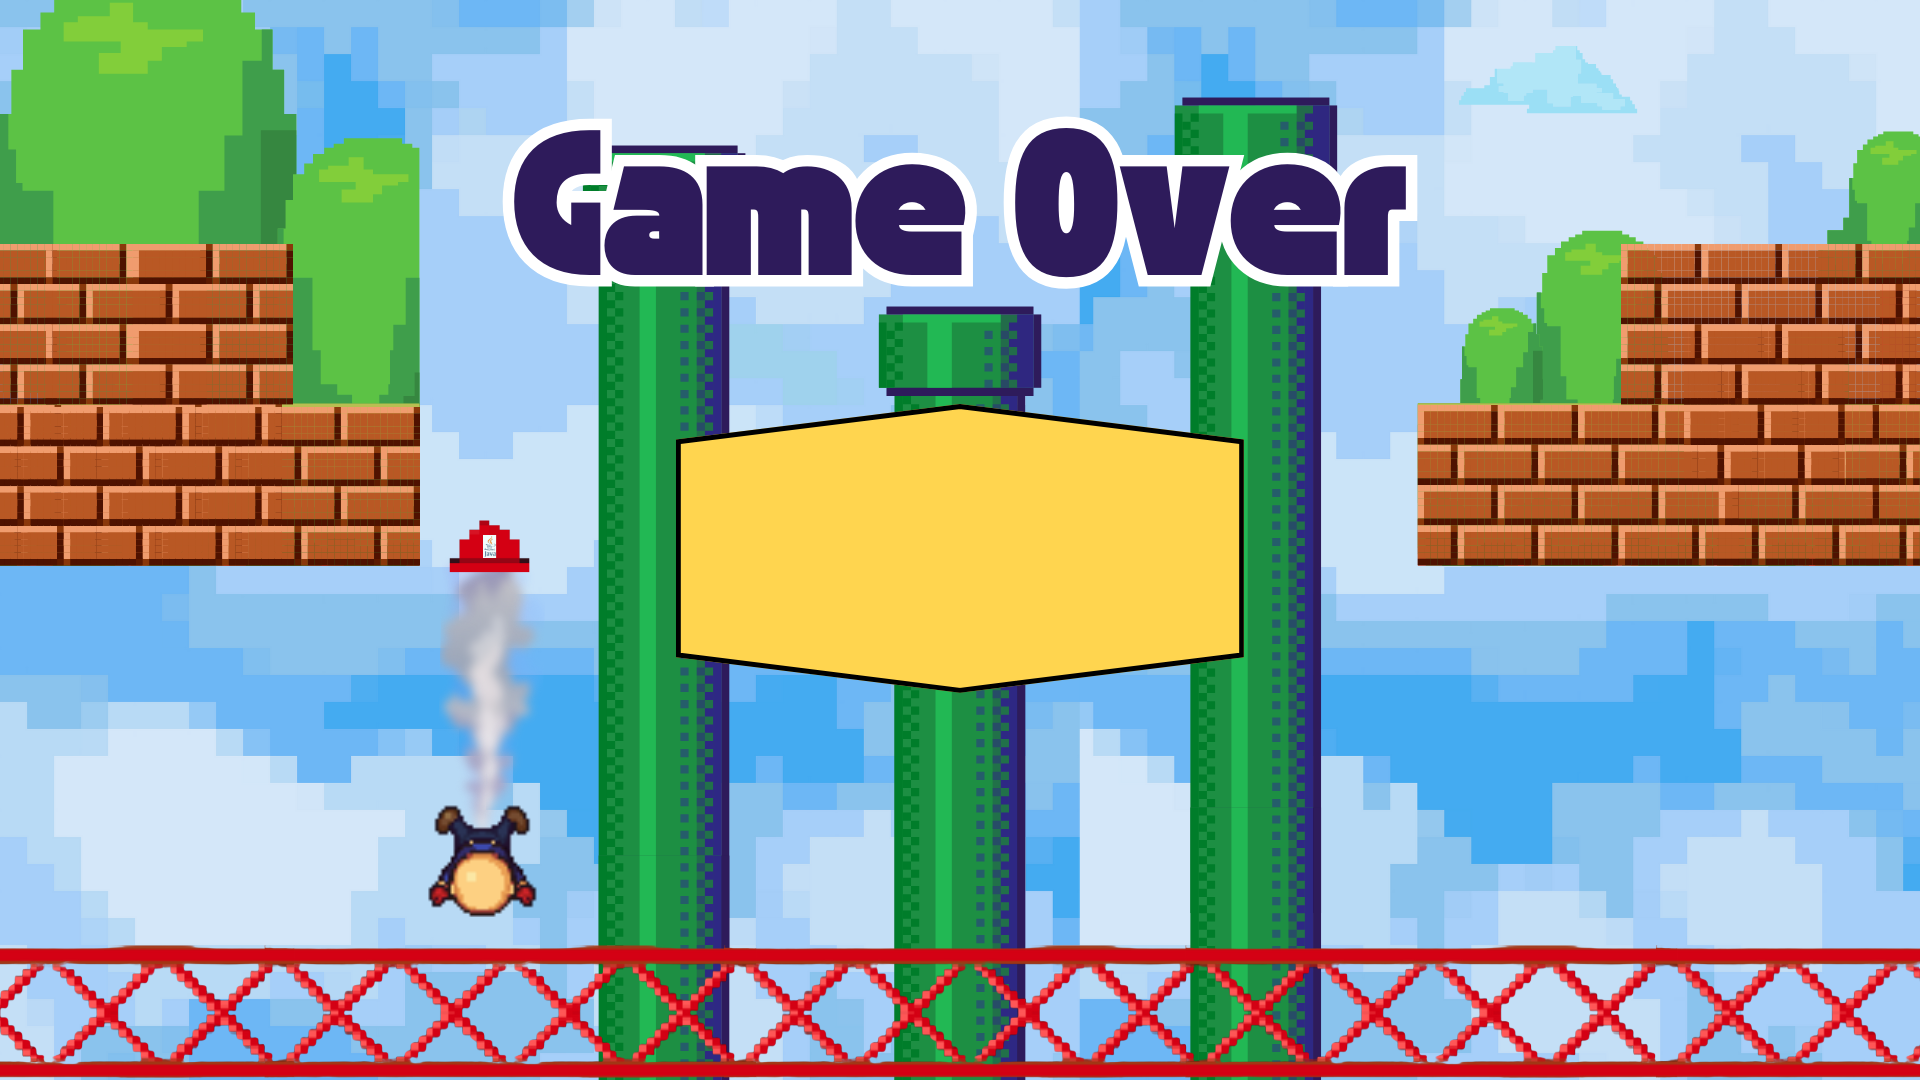
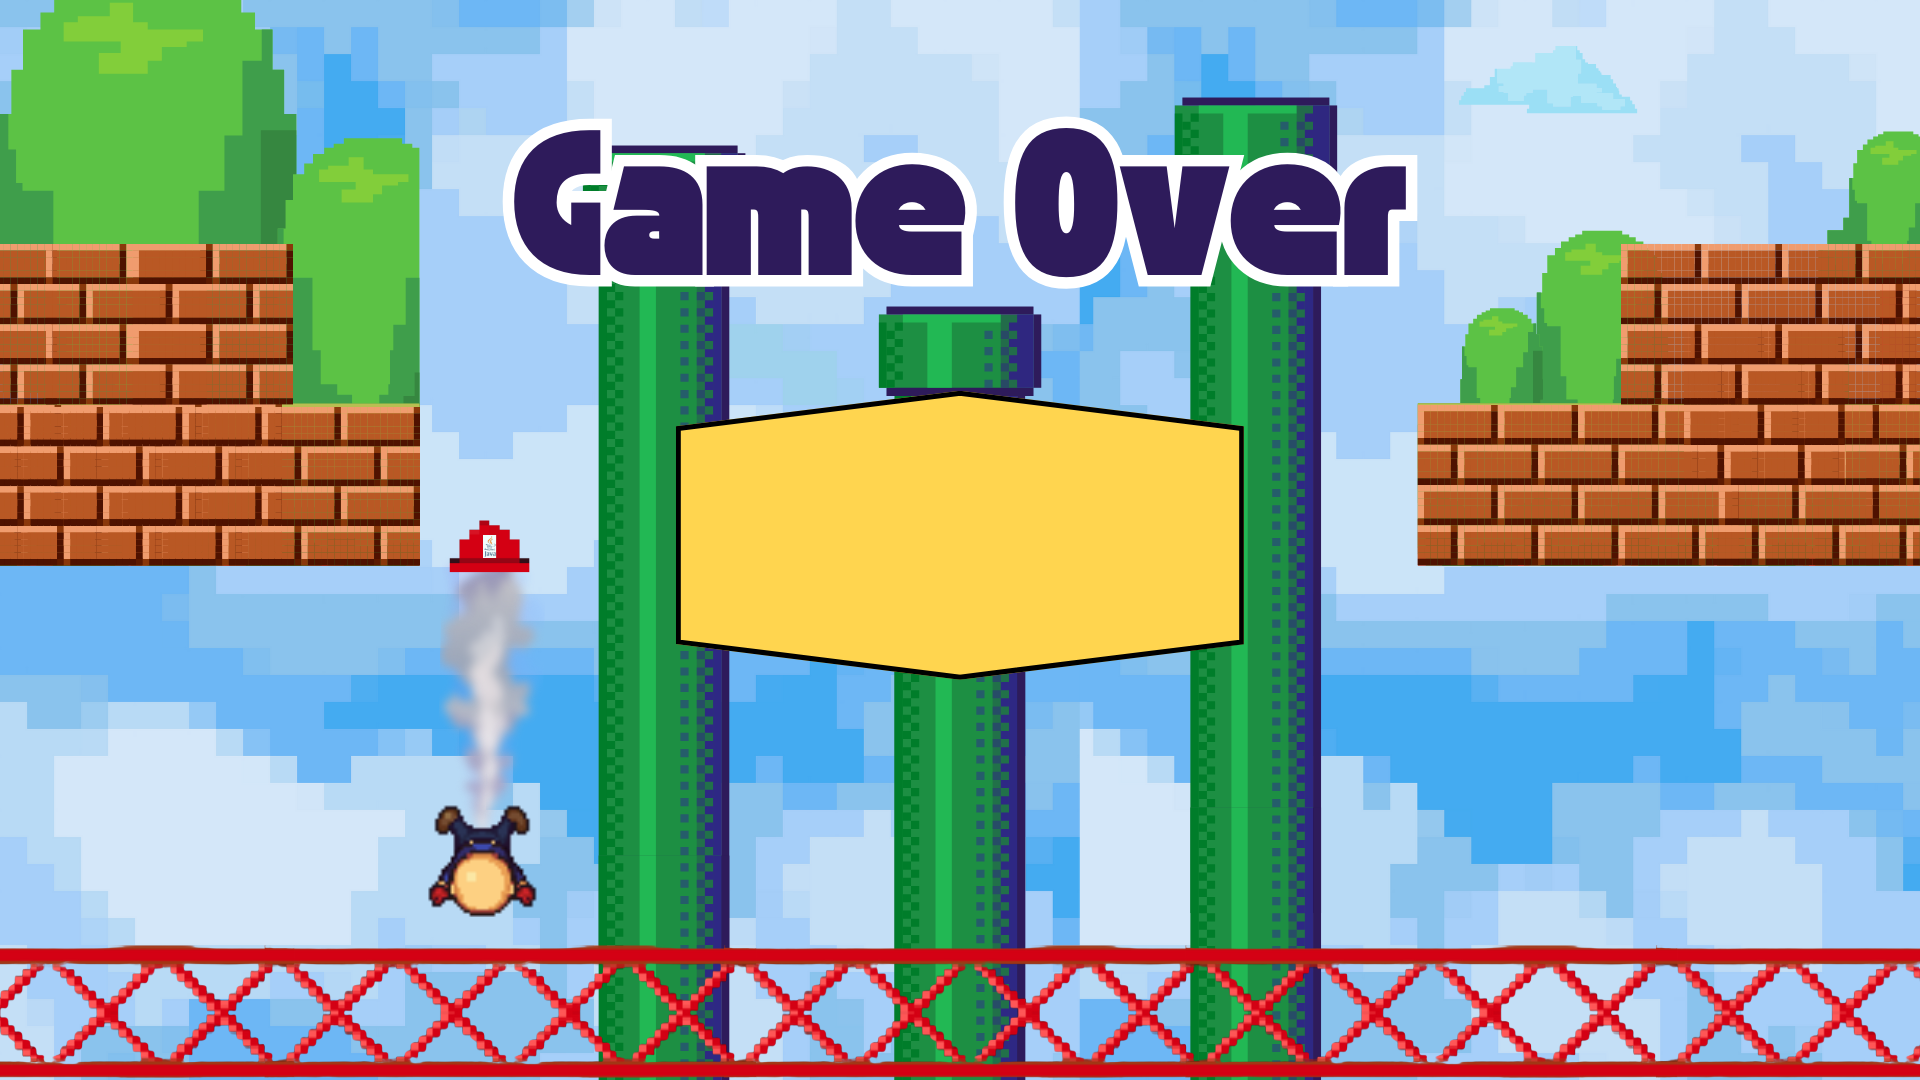
patch 7
+ now uses "Final Standing" instead of "Score" when game has ended
~ modified game over and game won splash

Changed region(s): [[0.3438, 0.5806, 0.6562, 0.6417], [0.3438, 0.3667, 0.6562, 0.4278]]

diff --git a/Flario/src/flario/GameStage.java b/Flario/src/flario/GameStage.java
@@ -268,22 +268,24 @@ public class GameStage {
 	    return(root);
 	}
 	
-	private static void initGameOver(int score, int time, int type) {
+	private static void initGameOver(String score, int time, int type) {
 	    Pane gameover = new Pane();
 	    VBox texts = new VBox();
 	    
 	    // Create Text objects for score and time
-	    Text scoreText = new Text("Score: " + score);
-	    Text timeText = new Text("\nTime Remaining");
+	    Text standingText = new Text("Final Standing:\n");
+	    Text standing = new Text(score);
+	    Text timeText = new Text("\nTime Remaining:\n");
 	    Text seconds = new Text(time + " seconds");
 
 	    // Style the Text objects if needed
-	    scoreText.setFont(GameStage.FONT_8BIT);
+	    standingText.setFont(GameStage.FONT_8BIT);
+	    standing.setFont(GameStage.FONT_8BIT);
 	    timeText.setFont(GameStage.FONT_8BIT);
 	    seconds.setFont(GameStage.FONT_8BIT);
 	    
 	    texts.setAlignment(Pos.CENTER); // set alignment of vbox to center
-	    texts.getChildren().addAll(scoreText, timeText, seconds);
+	    texts.getChildren().addAll(standingText, standing, timeText, seconds);
 	    
 	    texts.layoutXProperty().bind(gameover.widthProperty().subtract(texts.prefWidth(-1)).divide(2));
 	    texts.layoutYProperty().bind(gameover.heightProperty().subtract(texts.prefHeight(-1)).divide(2));
@@ -351,7 +353,7 @@ public class GameStage {
 		stage.setScene(this.instScene);
 	}
 	
-	static void showGameOver(int score, int time, int type) {
+	static void showGameOver(String score, int time, int type) {
 		if(type == 1) playgameover();
 		else playgamewon();
 		initGameOver(score, time, type);       // initializes gameover scene

diff --git a/Flario/src/flario/GameTimer.java b/Flario/src/flario/GameTimer.java
@@ -96,11 +96,10 @@ public class GameTimer extends AnimationTimer {
         	this.stop();
         	endCountdown();
         	if(!this.character.isAlive()) {
-        		GameStage.showGameOver(this.character.getScore(), gameTime, 1);
+        		GameStage.showGameOver(computeFinalScore(1), gameTime, 1);
         	}
         	else {
-        		computeFinalScore();
-        		GameStage.showGameOver(this.character.getScore(), gameTime, 0);
+        		GameStage.showGameOver(computeFinalScore(0), gameTime, 0);
         	}
         }
     }
@@ -532,16 +531,28 @@ public class GameTimer extends AnimationTimer {
 		return(String.format("%d", this.character.getScore()));
 	}
 	
-	private String computeFinalScore() {
+	private String computeFinalScore(int type) {
+		if(type ==1) return("INC");
 		int score = (int) (this.character.getScore() + (gameTime*FINAL_SCORE_MULT));
 		this.character.setScore(score);
-		return(String.format("%d", this.character.getScore()));
+		score = this.character.getScore();
+		
+		if(score >= 95) return("1.00");
+		if(score >= 90) return("1.25");
+		if(score >= 85) return("1.50");
+		if(score >= 80) return("1.75");
+		if(score >= 75) return("2.00");
+		if(score >= 70) return("2.25");
+		if(score >= 65) return("2.50");
+		if(score >= 60) return("2.75");
+		if(score >= 55) return("3.00");
+		else return("5.00");
 		
 	}
 	
 	private void printScore() {
 		System.out.println("TIME LEFT: " + computeTime());
-		System.out.println("USER'S SCORE IS: " + computeScore() + "\n");
+		System.out.println("USER'S GRADE IS: " + computeScore() + "\n");
 	}
 	
 	private void drawScore(){
